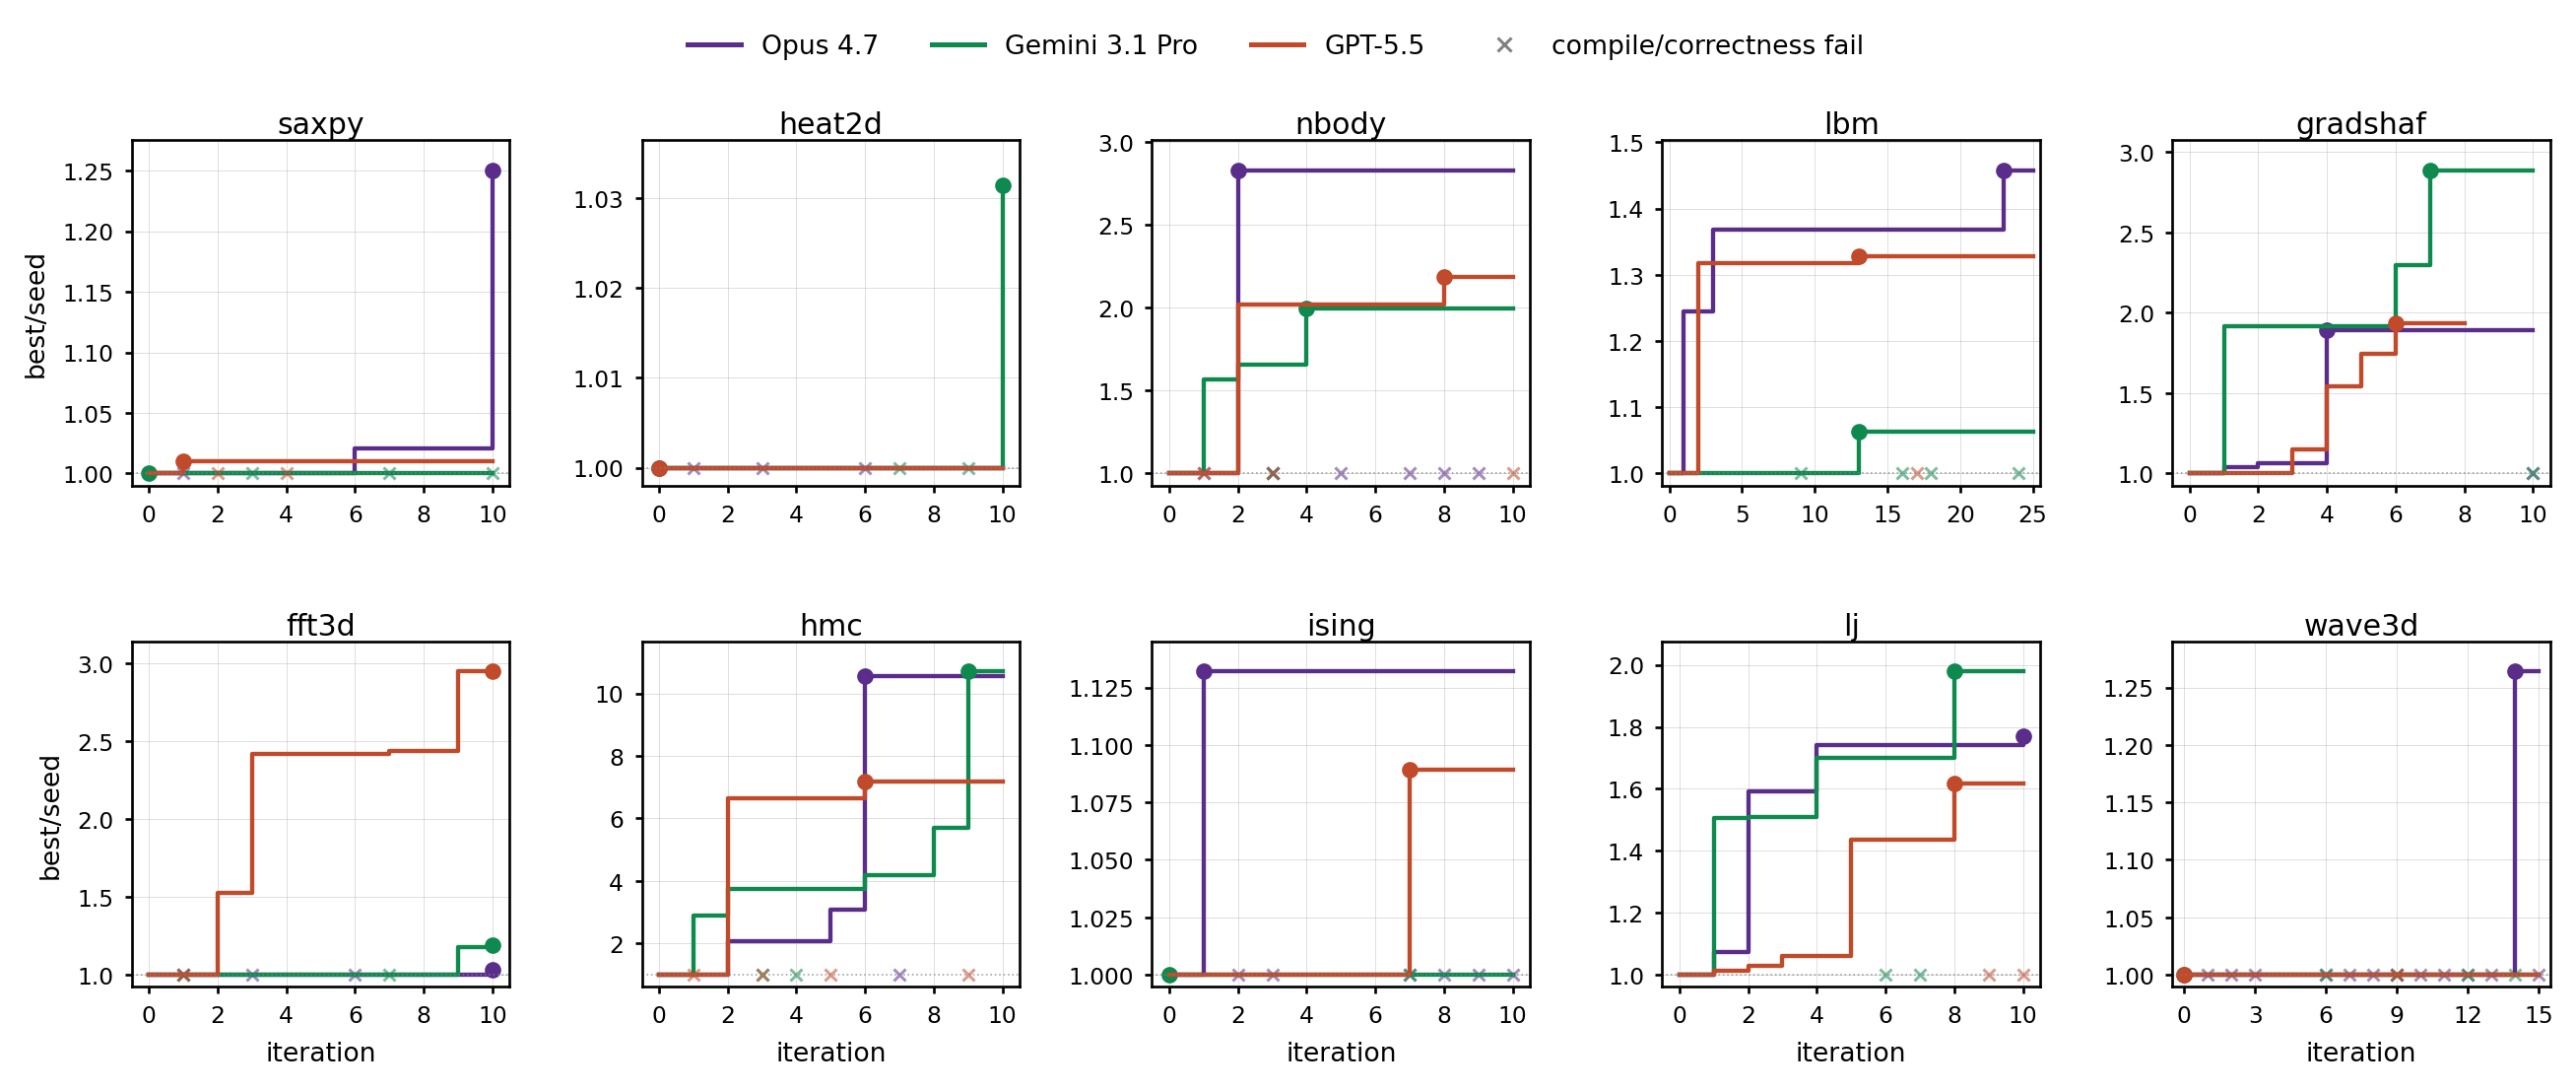
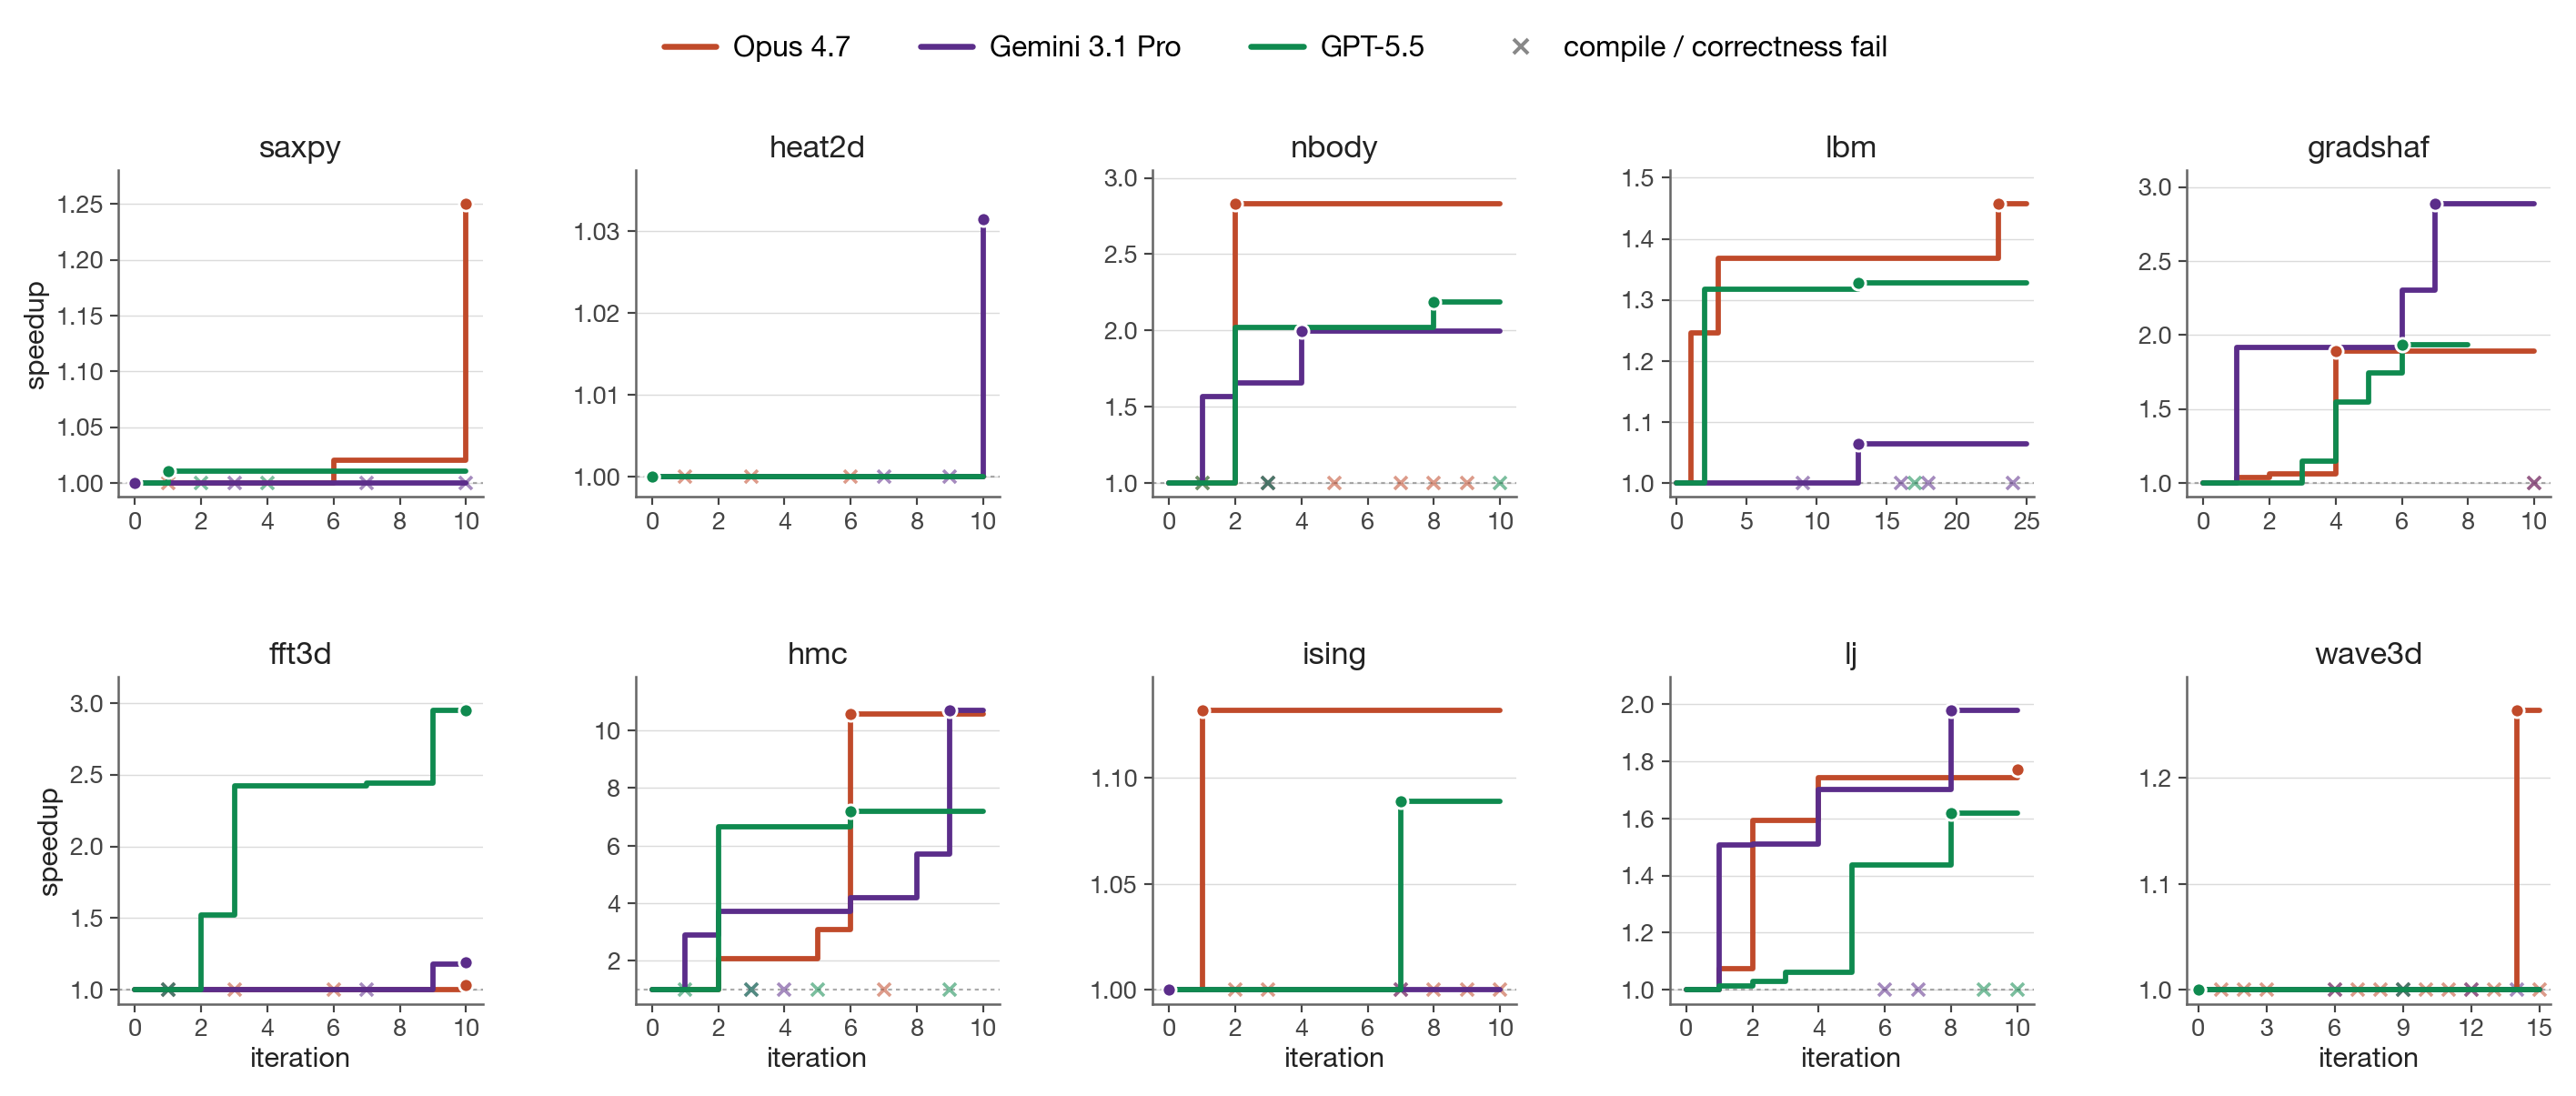
update convergence figure

diff --git a/paper/figs/make_convergence.py b/paper/figs/make_convergence.py
@@ -3,15 +3,38 @@
 from __future__ import annotations
 import json
 from pathlib import Path
+import matplotlib as mpl
 import matplotlib.pyplot as plt
 
 ROOT = Path("/Users/victorgallego/metal-kernels/results")
 TASKS = ["saxpy","heat2d","nbody","lbm","gradshaf","fft3d","hmc","ising","lj","wave3d"]
 MODELS = [
-    ("claude-opus-4-7",        "Opus 4.7",          "#5B2D8A"),
-    ("gemini-3.1-pro-preview", "Gemini 3.1 Pro",    "#0F8A4F"),
-    ("gpt-5.5",                "GPT-5.5",           "#C04A2A"),
+    ("claude-opus-4-7",        "Opus 4.7",         "#C04A2A"),
+    ("gemini-3.1-pro-preview", "Gemini 3.1 Pro",    "#5B2D8A"),
+    ("gpt-5.5",                "GPT-5.5",          "#0F8A4F"),
 ]
+
+# Typography & global style.
+mpl.rcParams.update({
+    "font.family": "sans-serif",
+    "font.sans-serif": ["Helvetica Neue", "Helvetica", "Arial", "DejaVu Sans"],
+    "axes.titlesize": 9.5,
+    "axes.titleweight": "regular",
+    "axes.labelsize": 8.5,
+    "axes.linewidth": 0.7,
+    "axes.edgecolor": "#444444",
+    "xtick.color": "#444444",
+    "ytick.color": "#444444",
+    "xtick.labelsize": 7.5,
+    "ytick.labelsize": 7.5,
+    "xtick.direction": "out",
+    "ytick.direction": "out",
+    "legend.fontsize": 8.5,
+    "axes.spines.top": False,
+    "axes.spines.right": False,
+    "savefig.facecolor": "white",
+    "figure.facecolor": "white",
+})
 
 def pick_dir(task: str, model: str) -> Path | None:
     cands = sorted(ROOT.glob(f"{task}_{model}_*"))
@@ -41,10 +64,10 @@ def best_so_far(task, model):
         iters.append(it)
     return iters, ratio, fails, s["n_iterations"]
 
-fig, axes = plt.subplots(2, 5, figsize=(11.0, 4.6),
+fig, axes = plt.subplots(2, 5, figsize=(11.0, 4.7),
                          sharex=False, sharey=False)
-plt.subplots_adjust(left=0.06, right=0.99, top=0.88, bottom=0.10,
-                    wspace=0.35, hspace=0.45)
+plt.subplots_adjust(left=0.055, right=0.99, top=0.86, bottom=0.11,
+                    wspace=0.42, hspace=0.55)
 
 for ax, t in zip(axes.flat, TASKS):
     max_iter = 0
@@ -57,40 +80,55 @@ for ax, t in zip(axes.flat, TASKS):
         ymin = min(ymin, min(ratio))
         ymax = max(ymax, max(ratio))
         # Step plot to emphasise non-decreasing best-so-far.
-        ax.step(iters, ratio, where="post", color=col, lw=1.3, label=label)
+        ax.step(iters, ratio, where="post", color=col, lw=1.6,
+                solid_joinstyle="round", solid_capstyle="round",
+                label=label, zorder=3)
         # Mark the iteration that achieved the final best.
         final_best = ratio[-1]
         for i, r in enumerate(ratio):
             if r == final_best:
-                ax.plot(iters[i], r, "o", color=col, ms=4); break
+                ax.plot(iters[i], r, "o", color=col, ms=4.2,
+                        mec="white", mew=0.8, zorder=4)
+                break
         # Tick the failed candidates along the seed line.
         for f in fails:
-            ax.plot(f, 1.0, "x", color=col, ms=3.5, mew=0.9, alpha=0.55)
-    ax.set_title(t, fontsize=9, pad=2)
-    ax.axhline(1.0, color="gray", lw=0.5, ls=":", alpha=0.7)
+            ax.plot(f, 1.0, "x", color=col, ms=3.8, mew=1.0,
+                    alpha=0.55, zorder=2)
+    ax.set_title(t, fontsize=9.5, pad=4, color="#222222")
+    # Reference: y = 1 (seed).
+    ax.axhline(1.0, color="#888888", lw=0.6, ls=(0, (2, 2)), alpha=0.7, zorder=1)
     ax.set_xlim(-0.5, max_iter + 0.5)
     span = max(ymax - 1.0, 0.05)
-    ax.set_ylim(1.0 - 0.04*span, ymax + 0.10*span)
-    ax.tick_params(labelsize=7, length=2)
-    ax.grid(True, lw=0.3, alpha=0.4)
+    ax.set_ylim(1.0 - 0.05*span, ymax + 0.12*span)
+    # Horizontal-only grid, very subtle.
+    ax.grid(False)
+    ax.yaxis.grid(True, lw=0.4, color="#D8D8D8", alpha=0.9, zorder=0)
+    ax.set_axisbelow(True)
+    ax.tick_params(length=2.5, width=0.6, pad=2)
     # Tight x ticks.
     if max_iter <= 10: ax.set_xticks([0,2,4,6,8,10])
     elif max_iter <= 15: ax.set_xticks([0,3,6,9,12,15])
     else: ax.set_xticks([0,5,10,15,20,25])
+    # Trim left/bottom spines slightly inward feel by not extending beyond data.
+    for s in ("left","bottom"):
+        ax.spines[s].set_color("#666666")
 
 # Y/X axis labels on shared edges.
 for ax in axes[:,0]:
-    ax.set_ylabel("best/seed", fontsize=8)
+    ax.set_ylabel("speedup", fontsize=8.5, color="#222222", labelpad=2)
 for ax in axes[1,:]:
-    ax.set_xlabel("iteration", fontsize=8)
+    ax.set_xlabel("iteration", fontsize=8.5, color="#222222", labelpad=2)
 
-# Legend: top centered, single row.
-handles = [plt.Line2D([0],[0], color=c, lw=1.5, label=l) for _,l,c in MODELS]
-handles += [plt.Line2D([0],[0], marker="x", color="gray", lw=0,
-                       ms=4, mew=0.9, label="compile/correctness fail")]
+# Legend: top centered, single row, refined.
+handles = [plt.Line2D([0],[0], color=c, lw=1.8, label=l,
+                      solid_capstyle="round") for _,l,c in MODELS]
+handles += [plt.Line2D([0],[0], marker="x", color="#888888", lw=0,
+                       ms=4.5, mew=1.1, label="compile / correctness fail")]
 fig.legend(handles=handles, loc="upper center", ncol=4,
-           frameon=False, fontsize=8, bbox_to_anchor=(0.5, 1.00))
+           frameon=False, fontsize=8.8, handlelength=1.8,
+           handletextpad=0.6, columnspacing=2.4,
+           bbox_to_anchor=(0.5, 1.005))
 
 out = Path("/Users/victorgallego/metal-kernels/paper/figs/convergence.png")
-fig.savefig(out, bbox_inches="tight", dpi=240)
+fig.savefig(out, bbox_inches="tight", dpi=260)
 print(f"wrote {out}")